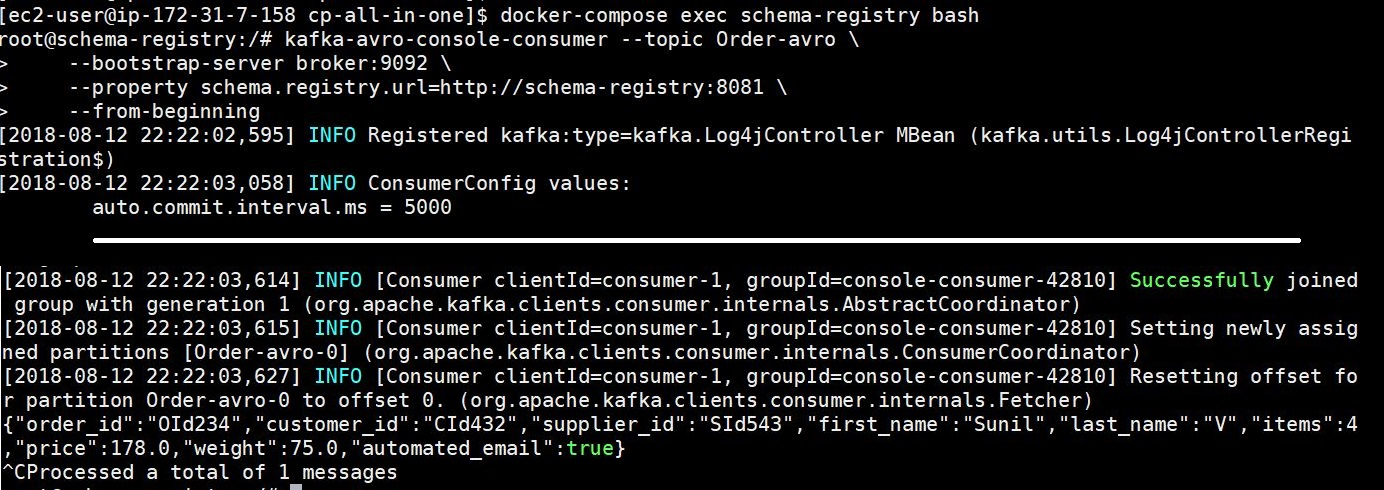
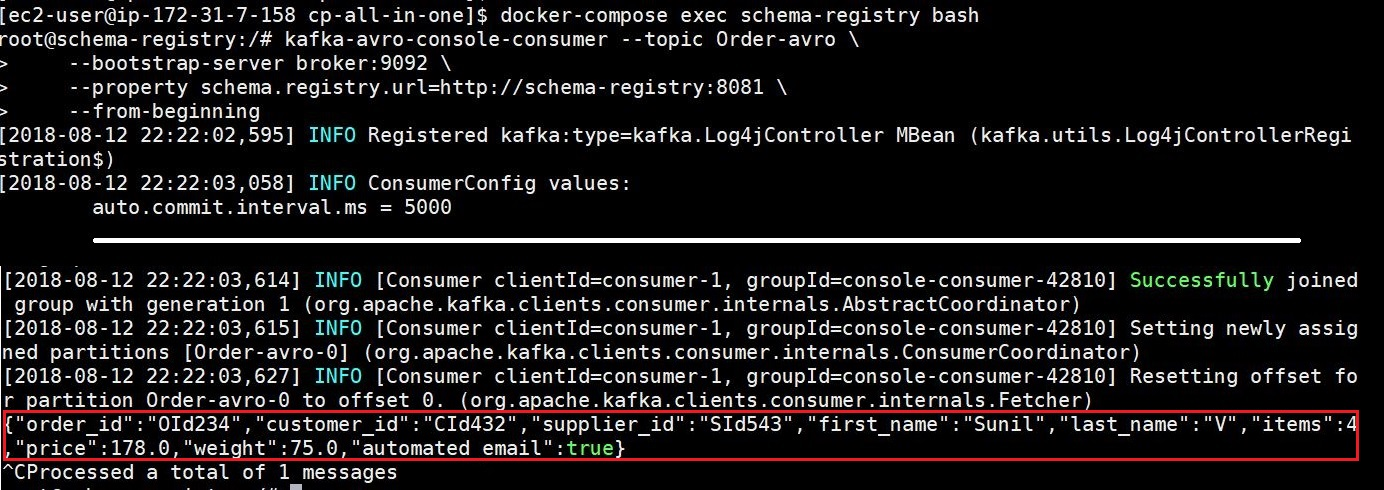
first commit

Changed region(s): [[0.0, 0.8265, 0.9942, 0.949]]

diff --git a/README.md b/README.md
@@ -285,7 +285,7 @@ kafka-avro-console-consumer --topic <name of your kafka topic> \
     --property schema.registry.url=http://schema-registry:8081 \
     --from-beginning
 ```
-You should see a similar output in your browser window :
+You should see a similar output in your browser window (edited for brevity):
 
 ![alt text](docs/output4.jpg) 
 
